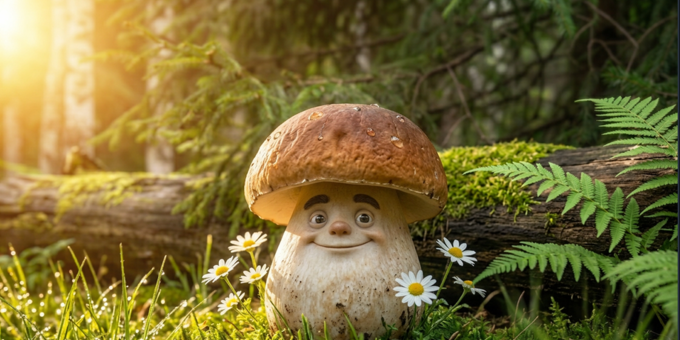
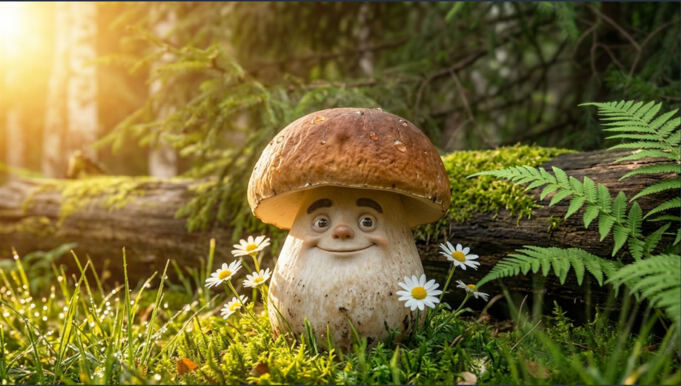
Лист 13 переделан: план 3 — мухомор в лесу, план 4 — сумерки, без пения

diff --git a/griby/02_Новые_раскадровки/Лист_13/ВИДЕОПРОМТ.md b/griby/02_Новые_раскадровки/Лист_13/ВИДЕОПРОМТ.md
@@ -1,0 +1,15 @@
+# Видеопромт · Лист 13 · «Ярко-красная»
+
+На входе — раскадровка 2×2 из четырёх последовательных кадров этого листа (кадр_1…кадр_4). Одна генерация ≈ 10 секунд, четыре плана по ~2,5 с, 16:9, 1080p, фотореализм, лес один и тот же.
+
+Опирайся на раскадровку как на главный источник: композиция, свет, ракурс и персонаж каждого плана должны совпасть с квадратом. Гриб — ровно тот, что в кадре: красная шляпка в белых точках, кремовая рюша-воротник, глаза с белками, румянец; рук и ног нет, растёт из мха. Девушки в этом листе нет. **Никто не поёт, рта не открывает, микрофона в кадре нет.**
+
+**План 1 (2,0 с).** Средний план: мухомор растёт во мху у корявых корней берёзы, шляпка красная, лицо спокойное, закрытая улыбка. Камера медленно наезжает, листья и трава слегка шевелятся от ветра.
+
+**План 2 (2,5 с).** Макро снизу под шляпкой: пластины просвечивают тёплым светом насквозь, по краю красная кайма, капли воды на травинках блестят. Камера медленно проходит вдоль пластин, фокус остаётся на их основании, ножка мягко уходит в расфокус.
+
+**План 3 (2,5 с).** Крупный план того же мухомора у комля берёзы, сумерки, вокруг холодная зелень. Красный становится глубже и плотнее, будто светится изнутри, белые точки резче. Лицо напряжённое и настороженное: брови чуть сведены, глаза прямо в камеру, рот закрыт. Один тонкий тёплый луч скользит по краю шляпки.
+
+**План 4 (3,0 с).** Общий план синих сумерек: тот же мухомор стоит маленьким и одиноким в туманной берёзовой поляне, папоротники на переднем плане размыты, по земле ползёт низкий туман. Под шляпкой еле тёплое свечение. Лицо спокойное, смотрит в сторону, молчит. Камера очень медленно отъезжает, туман идёт справа налево.
+
+Свет и погода меняются плавно, без склеек внутри листа. Телодвижений минимум: наклон шляпки, дыхание свечения, капли, туман. Никаких надписей, рамок, раскадровок и посторонних людей в кадре. Последний кадр не замирает: туман продолжает идти, камера продолжает отъезд.
